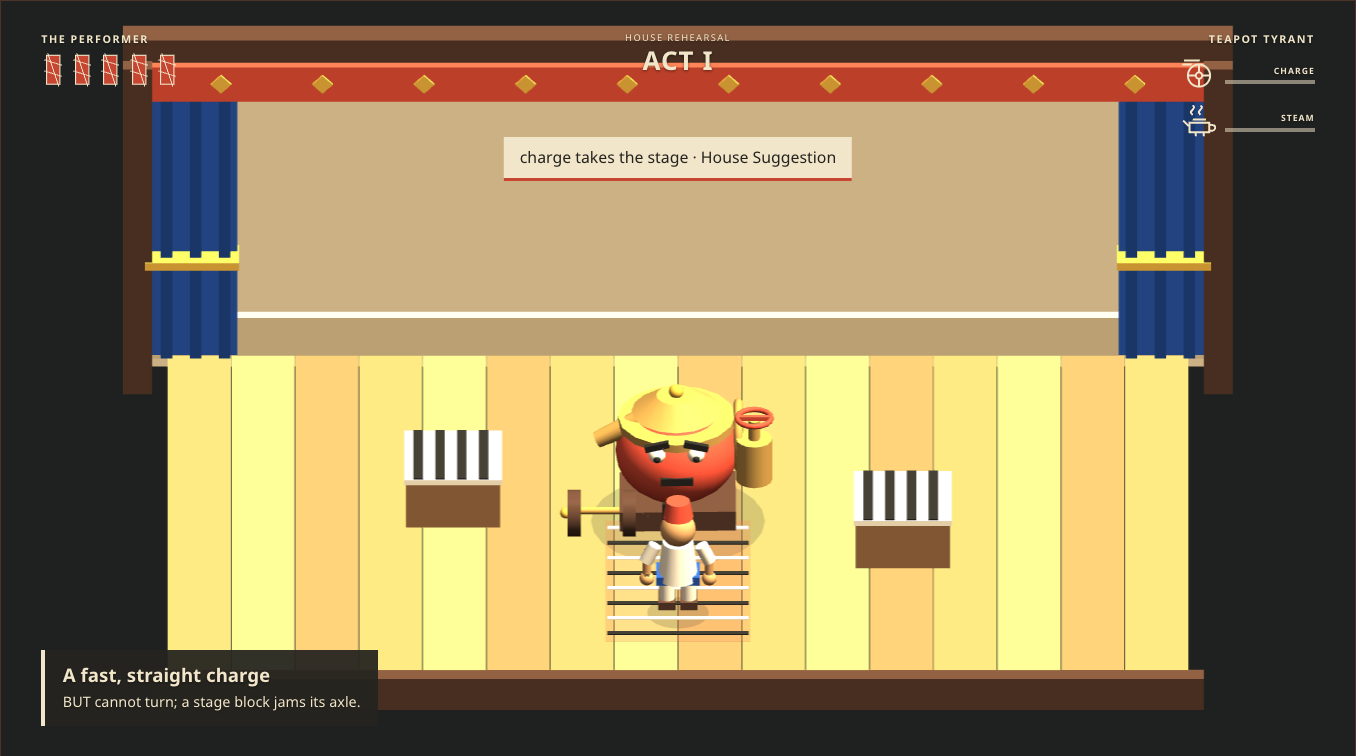
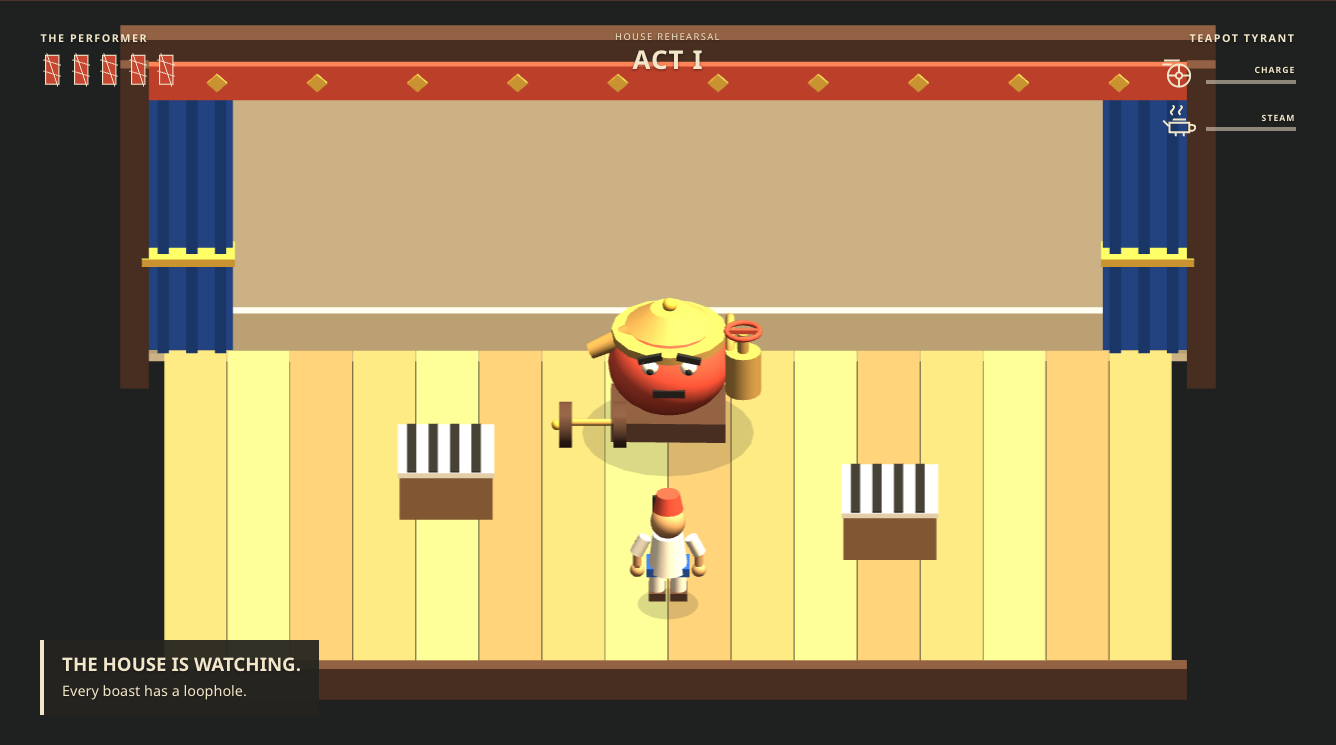
Fit the complete arena inside 720p desktop windows

diff --git a/tests/browser/rehearsal.spec.ts b/tests/browser/rehearsal.spec.ts
@@ -41,6 +41,16 @@ test('settings pause the action and expose keyboard and comfort controls',async(
   await expect(page.getByRole('heading',{name:'Take your time.'})).toBeVisible();
 });
 
+test('the entire arena fits a 720p desktop play window',async({page})=>{
+  await page.setViewportSize({width:1280,height:720});
+  await page.goto('/rehearse');await page.getByRole('button',{name:'Raise the curtain'}).click();
+  const canvas=page.getByTestId('game-canvas'),bounds=await canvas.boundingBox();
+  expect(bounds).not.toBeNull();expect(bounds!.y).toBeGreaterThanOrEqual(0);
+  expect(bounds!.y+bounds!.height).toBeLessThanOrEqual(720);
+  expect(bounds!.x).toBeGreaterThanOrEqual(0);expect(bounds!.x+bounds!.width).toBeLessThanOrEqual(1280);
+  await expect(page.getByRole('img',{name:'5 of 5 health stitches'})).toBeVisible();
+});
+
 test('missing approved asset uses the shipped development geometry without changing mechanics',async({page})=>{
   const entries=JSON.parse(await readFile('assets/manifest.json','utf8'));
   const hero={...entries.find((entry:{id:string})=>entry.id==='hero'),glbPath:'/assets/runtime/missing.glb'};

diff --git a/apps/web/src/styles.css b/apps/web/src/styles.css
@@ -13,3 +13,5 @@
 [data-reduced-motion=true] *{scroll-behavior:auto!important;transition:none!important}
 
 .showbill-history-section{max-width:1000px;margin:2.5rem auto 0;padding:1.5rem 0}.showbill-history-section>h2{font-size:clamp(1.5rem,3vw,2.2rem);margin:.6rem 0 1.5rem}.showbill-history>article{padding:1.5rem 0;border-top:1px solid var(--line)}.showbill-history h3{margin:0 0 .7rem;font-size:1.25rem}.showbill-history details{margin-top:1rem;font-size:.75rem}.showbill-history code{overflow-wrap:anywhere}.showbill-history .result-ledger>div{flex-wrap:wrap}.showbill-history-section>p{font-size:.85rem}
+
+@media(min-width:701px){.performance-page>.stage-frame{width:min(100%,calc((100svh - 15rem)*16/9));margin-inline:auto}}

diff --git a/CURRENT_HANDOFF.md b/CURRENT_HANDOFF.md
@@ -4,7 +4,7 @@ Updated26October2026. Full first-release scope is preserved. Root integration ch
 
 ## Authority and checkout
 
-- cwd /Users/frameless/Desktop/Aragoz. At this pre-publication checkpoint: Git main, HEAD unborn, all project source untracked. Root is committing/pushing the approved baseline in this turn; final on-disk handoff will record the resulting HEAD and any status-only dirt.
+- cwd /Users/frameless/Desktop/Aragoz. Git main. Baseline source commit e256d088443b62873e3e851ef1566cf2812e4974 is pushed to the verified private repository. The bounded720p layout correction and its current test/evidence/status files are being checkpointed in this turn; final on-disk handoff will record that tip.
 - Owner explicitly approved private https://github.com/AmirmLotfy/aragoz; repository exists and is verified private. All spending is prohibited. No paid hosting/model/Meshy usage or automatic billable CI is authorized. The old paid Render design is archived in ops/archive/render.paid-unapproved.yaml and must not be applied.
 - Root owns every file. Backend/frontend specialist packets are collected. A later specialist container-helper turn hit capacity; root implemented and verified that helper. No active delegated assignment/heavy check remains.
 - ARAGOZ_Full_Game_Brief.md is preserved unchanged. evidence/source-manifest.json is the non-ignored path/size/SHA256 inventory, excluding itself. Git ignores secrets/data/dependencies, Python cache and Blender backup copies; primary Blender sources remain included. Never log/copy secret values or user session data.
@@ -25,7 +25,7 @@ Stage recovery: one8second asset batch deadline; approved fallback on unavailabl
 - Node24.19.0, TypeScript7; pinned lockfile. Current typecheck passed.
 -112unit/server tests across7files passed (36combat/contracts,65server,11web helper/render). evidence/release-completion-tests.log. No real providers in fixture tests.
 -62asset-format/local-serving fixtures passed in the actual Linux build stage; earlier TAP retained. Static evidence is distinct from engine validation.
--11actual Playwright tests passed on current source,1worker,3.3minutes. evidence/release-completion-browser.log. Includes fixture-only HTTP/WS/live UI plus stalled manifest, late GLB, error-screen clickability and context-loss recovery. Browser access was initially disabled, then rechecked and became available; old unrun status is historical.
+-12actual Playwright tests passed on current source,1worker,1.9minutes. evidence/release-completion-browser.log. Includes fixture-only HTTP/WS/live UI plus stalled manifest, late GLB, error-screen clickability and context-loss recovery. Browser access was initially disabled, then rechecked and became available; old unrun status is historical.
 - Current release build passed;7admitted original Blender GLBs.44,796whole-kit triangles,1,345,615gzip GLB bytes; authored256px tiles/sockets/clips. Prior actual pair scenes33–35k/59–62drawcalls, short active peak40,951/70. New actual public stage:5approved assets,35,387triangles,61drawcalls; evidence/browser/public-release-stage.png.
 -18public files precompressed:9,418,149raw bytes →3,497,359Brotli /3,987,764gzip bytes. Native negotiation regression and actual packaged/public GLB decode checks pass. An earlier transient first public load used approved fallbacks; final reload admitted all5encounter assets.
 - Actual Linux ARM64 Docker image built with pinned Node digest, clean install/full checks and non-root node runtime.12smoke checks pass: public endpoints/private401, packaged compressed GLB, writable volume, replacement persistence, online backup and isolated restore. evidence/linux-container-build.json and linux-container-smoke.json contain actual metadata/source hashes. Docker client lacked buildx, so classic builder was used. Task-owned VM/container data were removed after checks; no image remains locally. Do not claim Linuxamd64/Render deployment from this ARM64 check.
@@ -41,14 +41,18 @@ Stage recovery: one8second asset batch deadline; approved fallback on unavailabl
 - Durable public data: data/public-preview/aragoz.sqlite. Private default encryption key data/public-preview/credentials.key, mode0600. Its value has never been printed or committed. Preserve it securely with backups. No Twitch app credentials have been configured. Public launcher forces OPENAI_API_KEY empty and MODEL_DAILY_REQUEST_LIMIT=0.
 - SIGHUP to the exact supervisorPID safely restarts only its game server and rereads ignored.env while preserving hostname/key/tunnel. Use between shows. Stopping the whole tunnel creates a new hostname next launch. Do not change encryption key during reload.
 - Official cloudflared2026.10.3 is installed in.runtime/bin; official release SHA256 verified. No account/payment required.
-- OBS33.0.0 official Apple build installed at.runtime/OBS.app; SHA256 and Apple signature verified. It is open at Review App Permissions. The owner explicitly approved Screen Recording for a dedicated game-only window. The native computer-control guard repeatedly rejected the toggle as a changed System Settings window; owner manual enable has been requested. Camera/microphone/input-monitoring remain unrequested. No capture has started. Existing OBS configuration was absent before this task; any newly created config is task setup.
+- OBS33.0.0 official Apple build installed at.runtime/OBS.app; SHA256 and Apple signature verified. Screen Recording is now verified enabled after the owner approved it. Native control briefly disconnected, then reconnected through a cua_repl reset. OBS is idle with no capture source and Mic/Aux mute visibly checked. Auto-Configuration Wizard was set through native keyboard selection to recording-only, then applied estimated Apple H.264 hardware/1920x1080 output/60fps settings. No capture has started. Coordinates in this Qt app returned noWindowsAvailable; prefer AX controls/native keyboard and verify every state transition. The OS later showed camera/microphone Access Granted and Input Monitoring on; root did not request/grant those. Never capture microphone/camera/private desktop; verify mute/disabled inputs before any recording. Existing OBS configuration was absent before this task; any newly created config is task setup.
 - Browser tabs: original local rehearsal; Twitch user tab2; developer fresh-login tab3; current public rehearsal tab4 marked deliverable. User keeps passwords/verification/account terms. Developer login password is not available to the agent; no saved autofill appeared. Do not read/expose credentials, automate CAPTCHAs or accept new developer terms without the required user action/confirmation.
 
 ## Smallest next work
 
-1. Finish approved source commit/push; verify private repository and exact revision; update on-disk handoff/source inventory with actual Git state.
+1. Complete the narrow720p presentation checkpoint, then finish the active OBS setup: isolated game-only browser window/source and output path, no microphone/camera/private desktop.
 2. Owner finishes fresh Twitch developer login in the prepared tab. Prepare app registration with the actual current callback; hand over new-credential/terms/verification steps as required. Put client ID/secret directly into ignored local config, invite amirmolotfy, SIGHUP supervisor, then complete genuine OAuth/chat challenge and provider lifecycle/isolation checks. Never call AI-authored Twitch messages genuine viewers.
-3. Verify owner-enabled OBS Screen Recording. Configure a new task profile/scene to capture only a dedicated ARAGOZ browser window, no backstage/other desktop content. Record actual30minute1080p and720p sessions and frame/encoder/device evidence. No result exists yet; do not substitute short headless measurements.
+3. OBS Screen Recording is verified enabled. Finish configuring the task profile/scene to capture only a dedicated ARAGOZ browser window, no backstage/other desktop content. Record actual30minute1080p and720p sessions and frame/encoder/device evidence. No result exists yet; do not substitute short headless measurements.
 4. After technical preview/provider checks:3first-time genuine hosts with≥3genuine viewers/session, actual counter and comprehension denominators. ops/acceptance contains blank protocols, zero invented participants. No authorization to contact people or publish recordings has been given.
 
 Keep full first-release scope and accurate evidence boundaries. These owner/provider/human steps remain real work; do not mark the entire release ready from a passing local suite.
+
+## Current presentation correction
+
+The actual720p public screenshot exposed vertical cropping. Desktop stage width is now bounded by available viewport height. All12browser tests pass, including real canvas bounds inside1280x720. Actual public DOM measured canvas x221.34/y191.69/837.33×463.99, bottom655.68 within720; evidence/browser/stage-fit-720p.json and public-release-stage-720p.png. Linux container proof predates this CSS-only framing change; server/contracts/dependencies are unchanged. Current typecheck/build/browser validate the framing change.

diff --git a/TEST_PLAN.md b/TEST_PLAN.md
@@ -8,7 +8,7 @@ Current local evidence is recorded below. Local, mocked provider and AI-led chec
 - `npm run typecheck`:passed with TypeScript7 under Node24.19.0.
 - `npm test`:112passed across7files after release completion fixes:36combat/contracts,65server and11web helper/render cases. Current log evidence/release-completion-tests.log; earlier receipts retained.
 - `npm run test:assets`:62small GLB-format/local-serving fixtures previously passed; evidence/asset-format.tap. Static bounds are rest-pose evidence.
-- `npm run test:browser`:11passed,1worker,3.3minutes on the current compression build after browser access became available. Actual log evidence/release-completion-browser.log. The stalled-manifest, late-container, covered-error and context-loss regressions now run and pass. Includes public offline rehearsal, real inputs/pause, settings, all pairs, actual missing-GLB fallback and fixture-only live authoring/vote/HTTP/WS/control recovery.
+- `npm run test:browser`:11passed,1worker,1.9minutes on the current compression build after browser access became available. Actual log evidence/release-completion-browser.log. The stalled-manifest, late-container, covered-error and context-loss regressions now run and pass. Includes public offline rehearsal, real inputs/pause, settings, all pairs, actual missing-GLB fallback and fixture-only live authoring/vote/HTTP/WS/control recovery.
 - `npm run build:release`:passed with all7runtime GLBs admitted. Original Blender sources,256px authored tiles, sockets and rigid clips retained;1,345,615compressed GLB bytes and44,796triangles across the full kit. Actual three-pair scenes were33–35kvisible triangles/59–62drawcalls at rest; active hazards peaked40,951triangles/70drawcalls in the short sample.
 - Actual M1 Metal headless browser samples at1920x1080 and1280x720 viewports:8.5seconds each, mean17.69/17.16ms presentation intervals, p9518ms. Actual canvas buffers were1492x832 and1203x669 due to the page layout. These short samples are NOT full1080p/720p OBS tests. evidence/browser/performance-smoke.json records exact dimensions and a409.6ms initial high-resolution outlier.
 - AI-led keyboard browser play baited the charge, exploited the block, broke the physical axle, observed six seconds without another charge, broke steam, won through the final strike and reset both modules with Encore. evidence/browser/causal-counter.json. No genuine viewer is claimed.
@@ -36,7 +36,7 @@ After hosted technical preview: three first-time hosts with at least three genui
 |---|---|---|
 | Foundation | locally verified | Source brief, lockfile, contracts, tests, rights log and handoff exist |
 | Real Twitch causal chain | pending | Genuine consent/chat not tested; fixture and AI-led chains are separate |
-| Complete show/mechanics | locally verified |112unit tests;11browser flows and keyboard counter/final-strike/Encore; provider acceptance remains open |
+| Complete show/mechanics | locally verified |112unit tests;12browser flows and keyboard counter/final-strike/Encore; provider acceptance remains open |
 | Finished art | admitted for technical preview | User direction approved;7original GLBs statically checked and rendered in Babylon; long OBS check remains open |
 | Hosted technical preview | temporary HTTPS rehearsal running; provider checks pending | Free Mac/tunnel host, reload and local Linux persistence/backup verified; actual Twitch consent/chat/isolation remain open |
 | Human acceptance | unperformed | ops/acceptance contains blank protocols/templates; must follow hosted preview |

diff --git a/BUILD_JOURNAL.md b/BUILD_JOURNAL.md
@@ -1,5 +1,11 @@
 # Build journal
 
+## 2026-10-26 —720p framing and source publication
+
+- Baseline203files were credential/path checked, committed and pushed privately as e256d088443b62873e3e851ef1566cf2812e4974. Upstream font/software license whitespace was preserved unchanged. No credentials/data/dependencies were staged.
+- Actual public720p screenshot revealed a vertically cropped arena. Bounded desktop stage width by available viewport height; added a meaningful browser bounds regression. Current typecheck/releasebuild and12actual browser tests passed (1.9minutes). Public DOM now confirms the entire canvas inside720p; current full-stage capture retained. No gameplay/server/dependency change in this correction.
+- OBS screen permission is now verified enabled. Reconnected native control after a pipe interruption. Mic/Aux mute is checked, sources empty, stream/record time zero. Recording-only wizard applied estimated Apple H.264/1920x1080/60fps settings; source/output and actual sessions remain pending. No capture or stream started. OS camera/mic/input-monitoring grants were observed later without root requesting them; restrict capture to game window and keep mic/camera out.
+
 ## 2026-10-26 — full release completion packet and zero-cost preview
 
 - Owner approved private AmirmLotfy/aragoz publication and prohibited every paid action. Created and verified the private repository. Archived the unapproved Render blueprint; no cloud/model/Meshy spending or billable CI enabled.

diff --git a/README.md b/README.md
@@ -4,7 +4,7 @@ Chat makes the monster. You find the loophole.
 
 ARAGOZ is a browser action game where Twitch viewers propose powers with built-in flaws. The selected contract attaches a physical module; exploiting the flaw opens a counter and breaking the module removes its ability.
 
-**Status:** full first-release implementation is available as a technical preview. TypeScript,112unit/server tests,62asset fixtures,11browser flows, the release build and an actual Linux ARM64 container/persistence/backup/restore check pass. Seven original Blender assets are admitted. Real Twitch application consent/chat, actual OBS sessions and genuine human acceptance remain open. See TEST_PLAN.md and CURRENT_HANDOFF.md.
+**Status:** full first-release implementation is available as a technical preview. TypeScript,112unit/server tests,62asset fixtures,12browser flows, the release build and an actual Linux ARM64 container/persistence/backup/restore check pass. Seven original Blender assets are admitted. Real Twitch application consent/chat, actual OBS sessions and genuine human acceptance remain open. See TEST_PLAN.md and CURRENT_HANDOFF.md.
 
 **No spending:** the owner approved the private repository and prohibited payments on26October2026. Model/Meshy calls remain off. Use the existing Mac plus the temporary HTTPS tunnel in [the no-cost hosting runbook](ops/NO_COST_HOSTING.md). The paid Render design is archived and unapproved; no automatic billable CI is configured.
 

diff --git a/ops/RELEASE_CHECKLIST.md b/ops/RELEASE_CHECKLIST.md
@@ -5,7 +5,7 @@ Local release candidate is prepared. This checklist records actual provider/host
 ## Current deliverable
 
 - [x] Pinned Node24.19.0, lockfile and successful clean npmci.
-- [x] Typecheck,112unit/server tests,62asset fixtures,11browser flows and release-asset build.
+- [x] Typecheck,112unit/server tests,62asset fixtures,12browser flows and release-asset build.
 - [x] Seven original Blender/GLB assets, rights and actual Babylon inspection.
 - [x] Real keyboard counter/break/final-strike/Encore playthrough, labelled AI-led.
 - [x] Production-only dependency package starts and serves API/frontend/assets/licenses.
